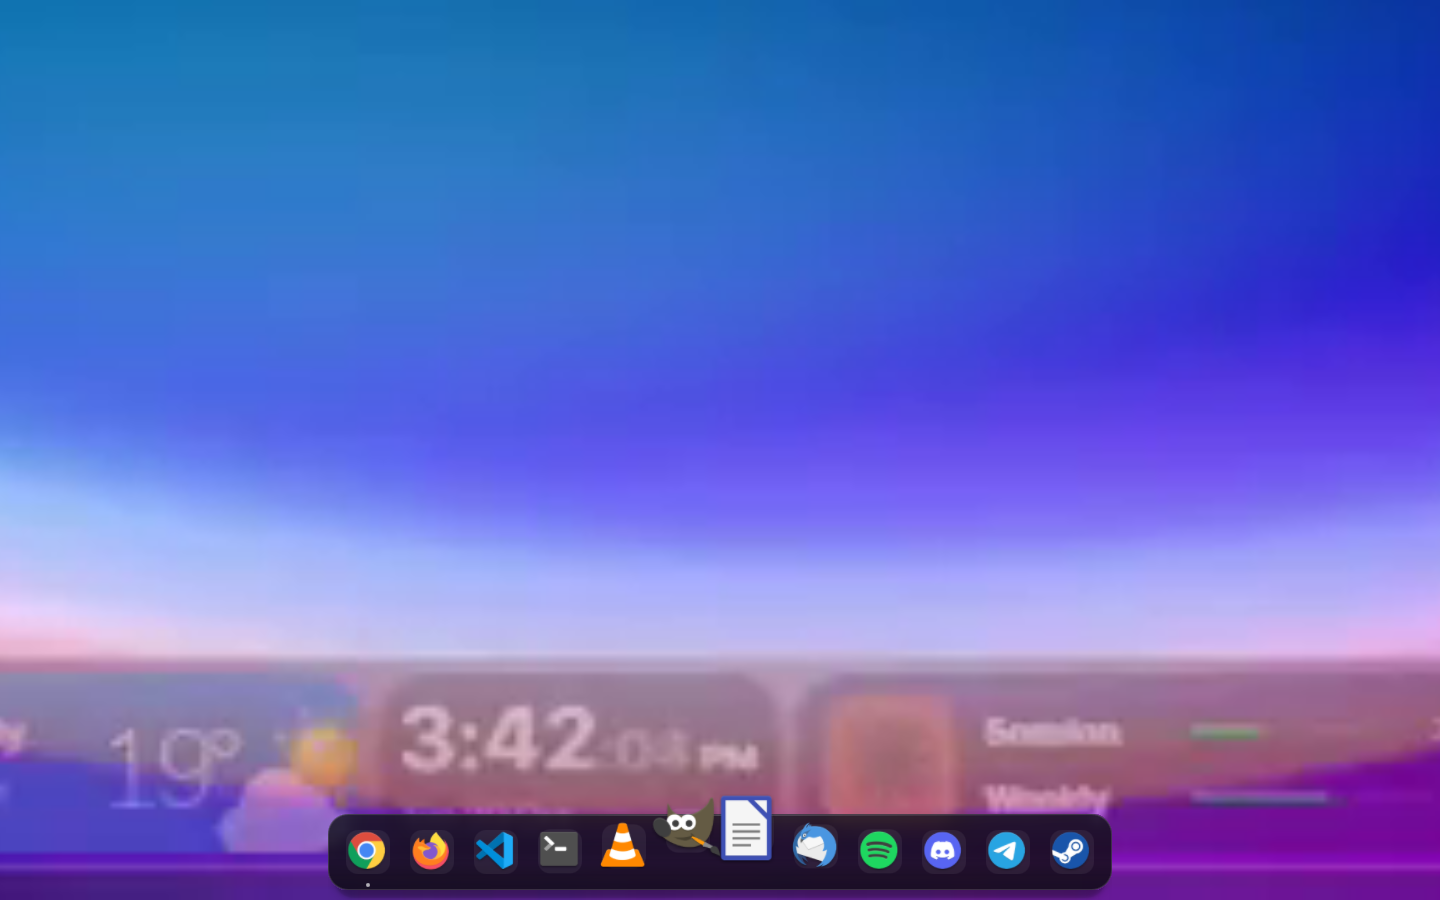
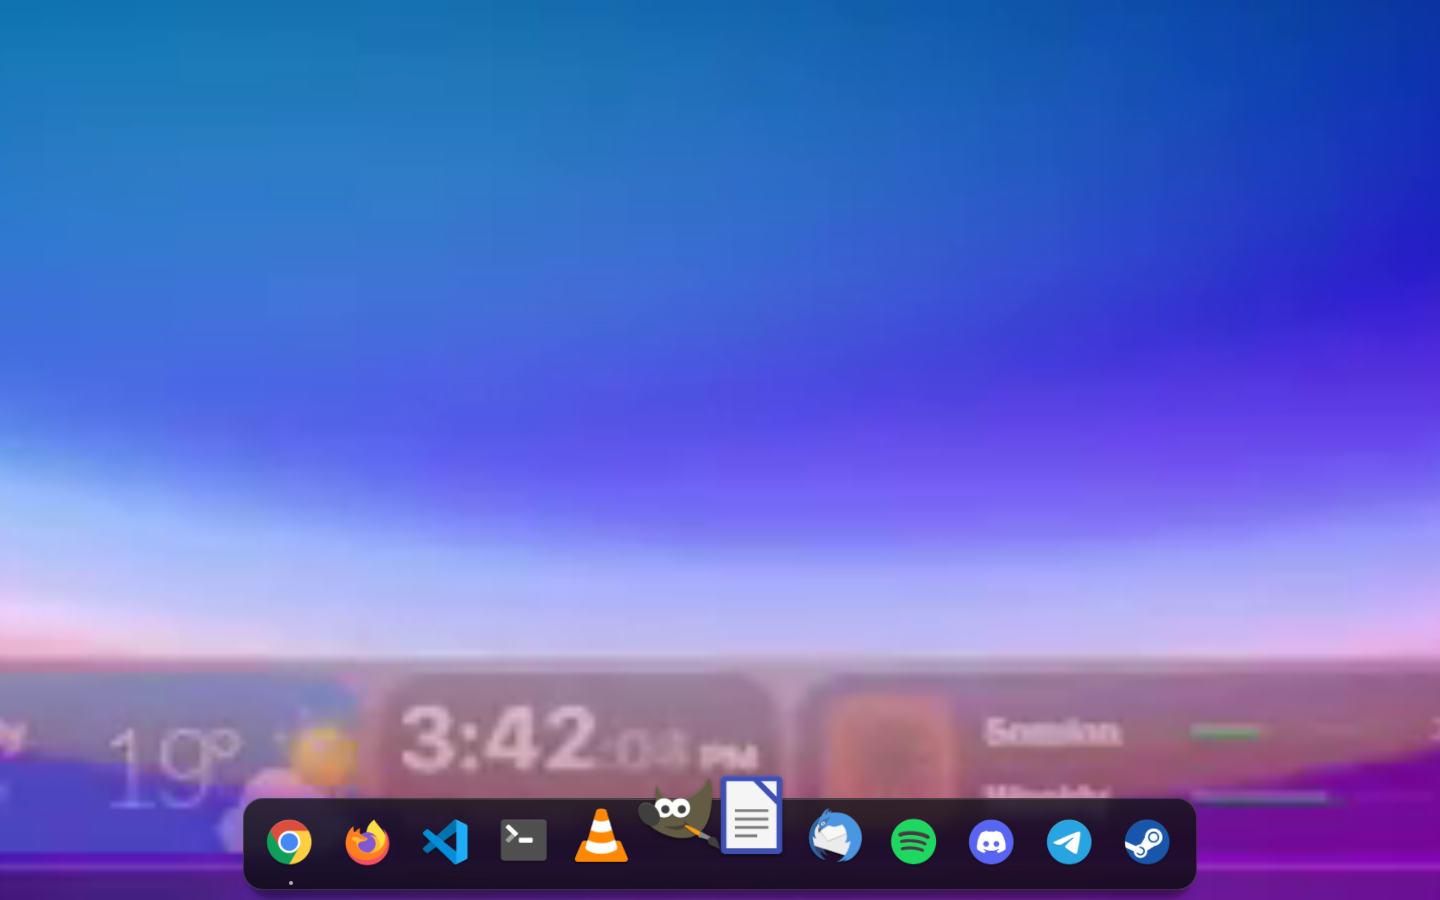
Dock: daha buyuk ikonlar ve yuvalar kaldirildi
- iconSize 68: panel 92 px, ikonlar arasi 10, yan 14, ekran altindan 12 px.
- Ikon arkasi 44x44 yuva/plaka tamamen kaldirildi; hover'da kutu yok, sadece buyutme.
- Ikonlar kendi seffaf PNG'si + gomulu golge ile cam uzerinde duruyor.
- kanit 01-03 ve olcum yenilendi; 60 sn bosta %1.8 CPU.

Changed region(s): [[0.1562, 0.84, 0.8438, 1.0]]

diff --git a/qml/Dock.qml b/qml/Dock.qml
@@ -10,12 +10,12 @@ Item {
     property string vurgu: "#8fb4ff"
 
     // Referans olculeri: ikon 56, panel 76, yan 12, ara 8, alt bosluk 10.
-    readonly property real ikonBoyut: 56
+    readonly property real ikonBoyut: ayar ? ayar.iconSize : 68
     readonly property real buyutmeCarpan: ayar ? ayar.buyutme : 1.9
-    readonly property real bosluk: 8
-    readonly property real yanBosluk: 12
-    readonly property real icBosluk: 10
-    readonly property real panelYukseklik: 76
+    readonly property real bosluk: 10
+    readonly property real yanBosluk: 14
+    readonly property real icBosluk: Math.round((panelYukseklik - ikonBoyut) / 2)
+    readonly property real panelYukseklik: 92
     readonly property real altPay: 10
     readonly property real hucreYuksekligi: Math.round(ikonBoyut * buyutmeCarpan)
     readonly property real tabanGenislik: ikonSayisi > 0
@@ -158,7 +158,6 @@ Item {
                 property real olcekDeger: kok.hedefOlcek(index)
                 property int parlamaSurum: model.parlama
                 property real parParlama: 0
-                property bool uzerinde: false
                 Behavior on olcekDeger {
                     NumberAnimation { duration: 140; easing.type: Easing.OutQuad }
                 }
@@ -169,15 +168,6 @@ Item {
                     anchors.bottom: parent.bottom
                     width: kok.ikonBoyut * hucre.olcekDeger
                     height: width
-                }
-
-                // 44x44 hafif yuva; plaka degil.
-                Rectangle {
-                    anchors.centerIn: kutu
-                    width: 44
-                    height: width
-                    radius: 12
-                    color: hucre.uzerinde ? "#1fffffff" : "#10ffffff"
                 }
 
                 // Ikon + gomulu yumusak golge (1 px asagi, 6 px blur).
@@ -249,12 +239,8 @@ Item {
                     anchors.fill: kutu
                     cursorShape: Qt.PointingHandCursor
                     hoverEnabled: true
-                    onEntered: {
-                        hucre.uzerinde = true
-                        ipucuZaman.start()
-                    }
+                    onEntered: ipucuZaman.start()
                     onExited: {
-                        hucre.uzerinde = false
                         ipucuZaman.stop()
                         if (kok.ipucu === index)
                             kok.ipucu = -1

diff --git a/dock/ana.py b/dock/ana.py
@@ -34,11 +34,11 @@ from .uygulamalar import (
 
 KOK = Path(__file__).resolve().parent.parent
 
-_ALAN_BOSLUK = 8
-_YAN_BOSLUK = 12
-_PANEL_YUKSEKLIK = 76
-_PANEL_DIKEY_BOSLUK = 10
-_ALT_PAY = 10
+_ALAN_BOSLUK = 10
+_YAN_BOSLUK = 14
+_PANEL_YUKSEKLIK = 92
+_PANEL_DIKEY_BOSLUK = 12
+_ALT_PAY = 12
 # Pencere opak: buyuyen ikonlar icin panel ustunde pay, golge icin altta 10 px.
 # Kalan alan masaustu goruntusuyle doldurulur; saydamlik/compositor gerekmez.
 _PENCERE_UST_PAY = 80

diff --git a/dock/ayarlar.py b/dock/ayarlar.py
@@ -7,7 +7,7 @@ from pathlib import Path
 
 VARSAYILAN = {
     "autoHide": False,
-    "iconSize": 56,
+    "iconSize": 68,
     "buyutme": 1.9,
     "kenarBosluk": 10,
     "sabitlenen": [],
